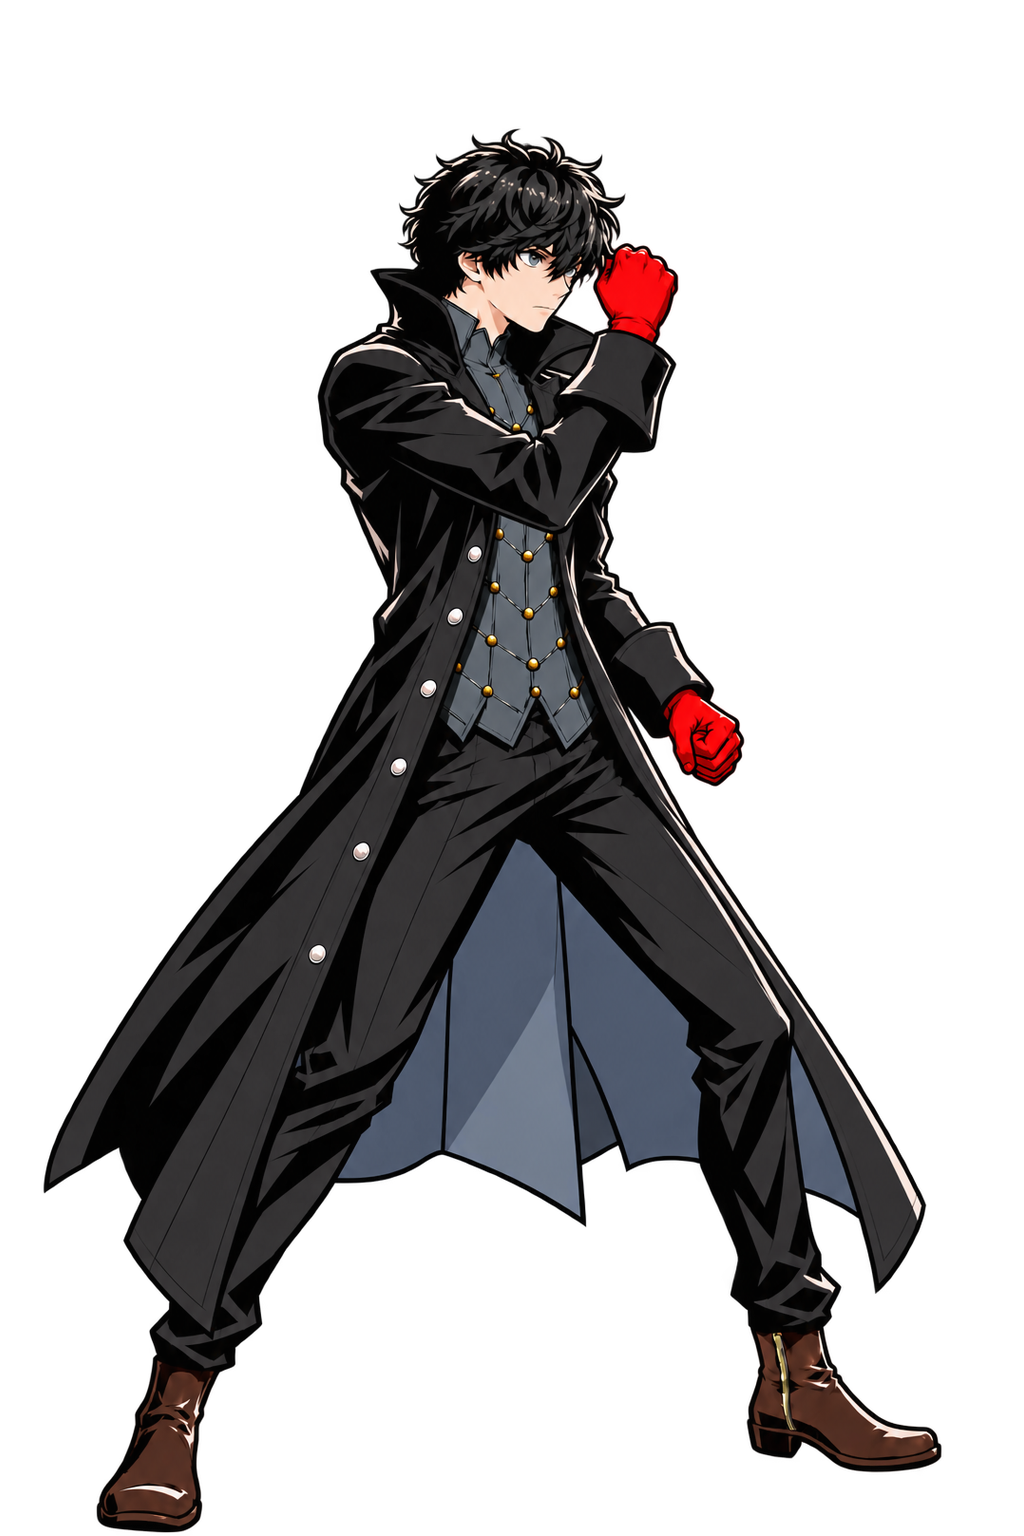
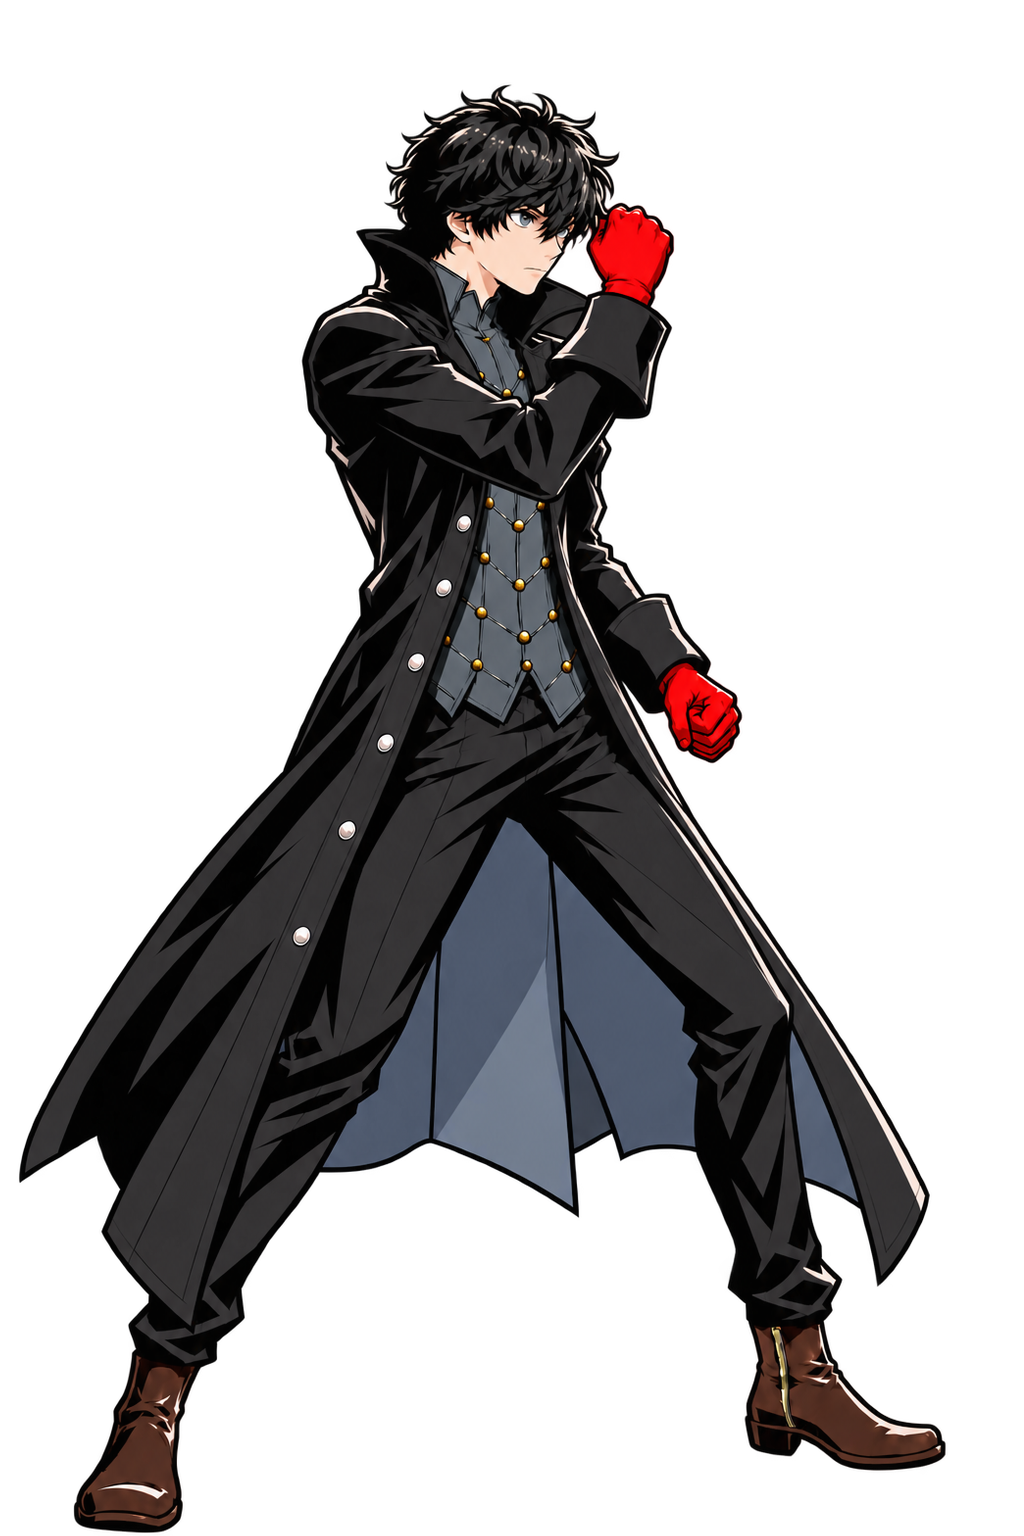
art: P5 guard_a2 normalize scale 0.98 (was reading small)
Claude-Session: https://claude.ai/code/session_01Nam5m2bn9ofCCWTGM6fwcN

Changed region(s): [[0.0, 0.0625, 0.9375, 1.0]]

diff --git a/tools/p5/normalize_poses.py b/tools/p5/normalize_poses.py
@@ -20,7 +20,7 @@ REF = 'idle_a3'
 # 'mid' = midpoint between the feet, for poses that step both feet).
 # Scales are set by hand from head width (hair, measured on crops) and boot size against idle_a3;
 # automatic head measurement is unreliable because raised black sleeves touch the hair.
-POSES = {'idle_a3': (1.0, 'rear'), 'guard_a2': (0.95, 'front'), 'knife_ready_a': (0.96, 'rear'),
+POSES = {'idle_a3': (1.0, 'rear'), 'guard_a2': (0.98, 'front'), 'knife_ready_a': (0.96, 'rear'),
          'slash_a3': (0.96, 'mid'), 'slash_follow_a': (0.96, 'mid'),
          'slash_mid_a': (0.96, 'mid'), 'slash_smear_a3': (0.96, 'mid'), 'guard_mid_a': (1.0, 'front')}
 
